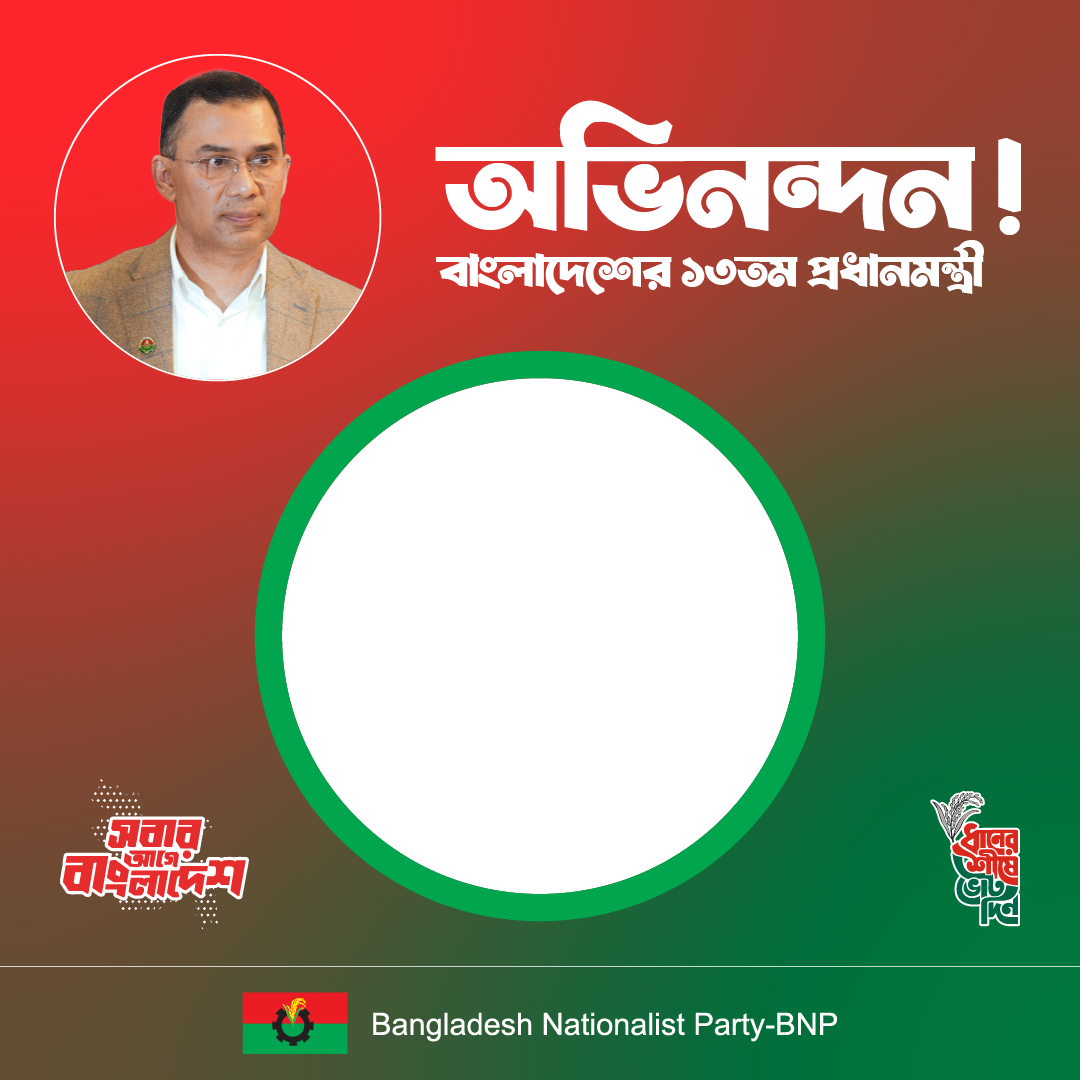
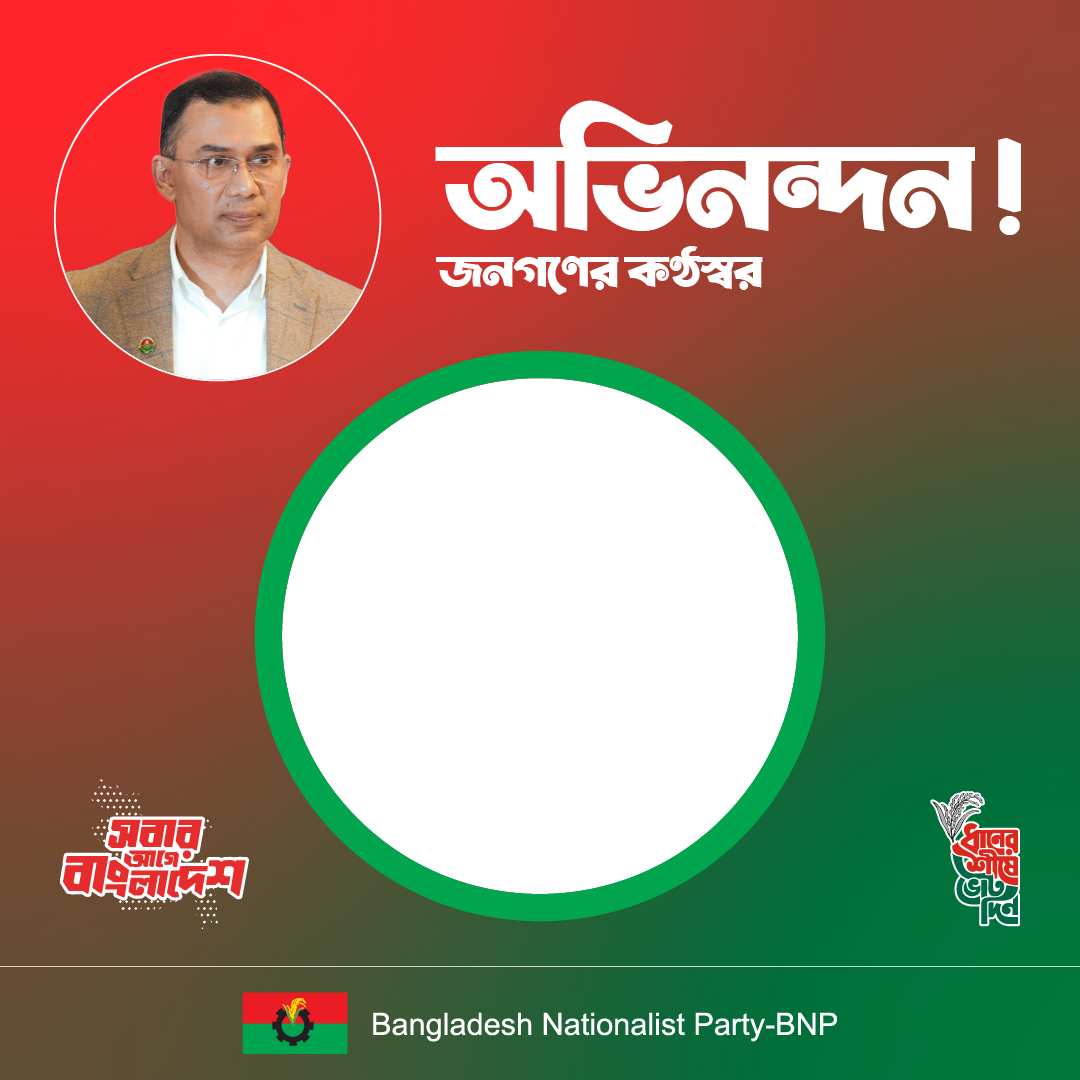
frame img change

Changed region(s): [[0.3972, 0.2139, 0.9167, 0.275]]

diff --git a/src/pages/FrameEditor/page.jsx b/src/pages/FrameEditor/page.jsx
@@ -25,7 +25,7 @@ const FrameEditor = () => {
       selectedMediaType === "profile"
         ? "/frames/profile/Congratulations.png"
         : selectedMediaType === "post"
-          ? "/frames/posts/post1.png"
+          ? "/frames/posts/Congrets-post.png"
           : "/frames/cover/cover1.png";
 
     setActiveFrame(defaultFrame);
@@ -188,11 +188,11 @@ const FrameEditor = () => {
 
               {!hasPhoto && !isLoading && (
                 <div
-                  className={`absolute pointer-events-none flex flex-col items-center justify-center
+                  className={`absolute pointer-events-none flex flex-col items-center justify-center 
                     ${selectedMediaType === "profile"
                       ? "inset-0"
                       : selectedMediaType === "post"
-                        ? "top-[12%] left-[25%] right-[25%] h-[30%]"
+                        ? "top-[30%] left-[25%] right-[25%] h-[30%] "
                         : "top-0 bottom-0 left-[20%] right-[20%]"
                     }`}
                 >
@@ -200,7 +200,7 @@ const FrameEditor = () => {
                     <Upload
                       className={`${selectedMediaType === "profile"
                         ? "w-12 h-12 sm:w-14 sm:h-14 md:w-16 md:h-16 mb-2 md:mb-3"
-                        : "w-10 h-10 sm:w-12 sm:h-12 md:w-14 md:h-14 mb-2 md:mb-3"
+                        : "w-10 h-10 sm:w-12 sm:h-12 md:w-14 md:h-14 mb-2 md:mb-3 "
                         } text-green-600 drop-shadow-lg`}
                     />
                   )}

diff --git a/src/components/FrameEditor/FrameSelector.jsx b/src/components/FrameEditor/FrameSelector.jsx
@@ -22,9 +22,14 @@ const PROFILE_FRAMES = [
 ];
 
 const POST_FRAMES = [
-  { id: 11, src: `/frames/posts/post1.png`, name: "Post Frame 1" },
-  { id: 12, src: `/frames/posts/post2.png`, name: "Post Frame 2" },
-  { id: 13, src: `/frames/posts/post3.png`, name: "Post Frame 3" },
+  { id: 11, src: `/frames/posts/Congrets-post.png`, name: "Post Frame 1" },
+  { id: 12, src: `/frames/posts/Congratulations-tarak-ban.png`, name: "Post Frame 2" },
+  { id: 13, src: `/frames/posts/Congratulations-tarak-eng.png`, name: "Post Frame 3" },
+  { id: 14, src: `/frames/posts/Congratulations-fakrul-eng.png`, name: "Post Frame 4" },
+  { id: 15, src: `/frames/posts/Congratulations-fakrul-ban.png`, name: "Post Frame 5" },
+  // { id: 11, src: `/frames/posts/post1.png`, name: "Post Frame 1" },
+  // { id: 12, src: `/frames/posts/post2.png`, name: "Post Frame 2" },
+  // { id: 13, src: `/frames/posts/post3.png`, name: "Post Frame 3" },
 ];
 
 const COVER_PHOTO_FRAMES = [
